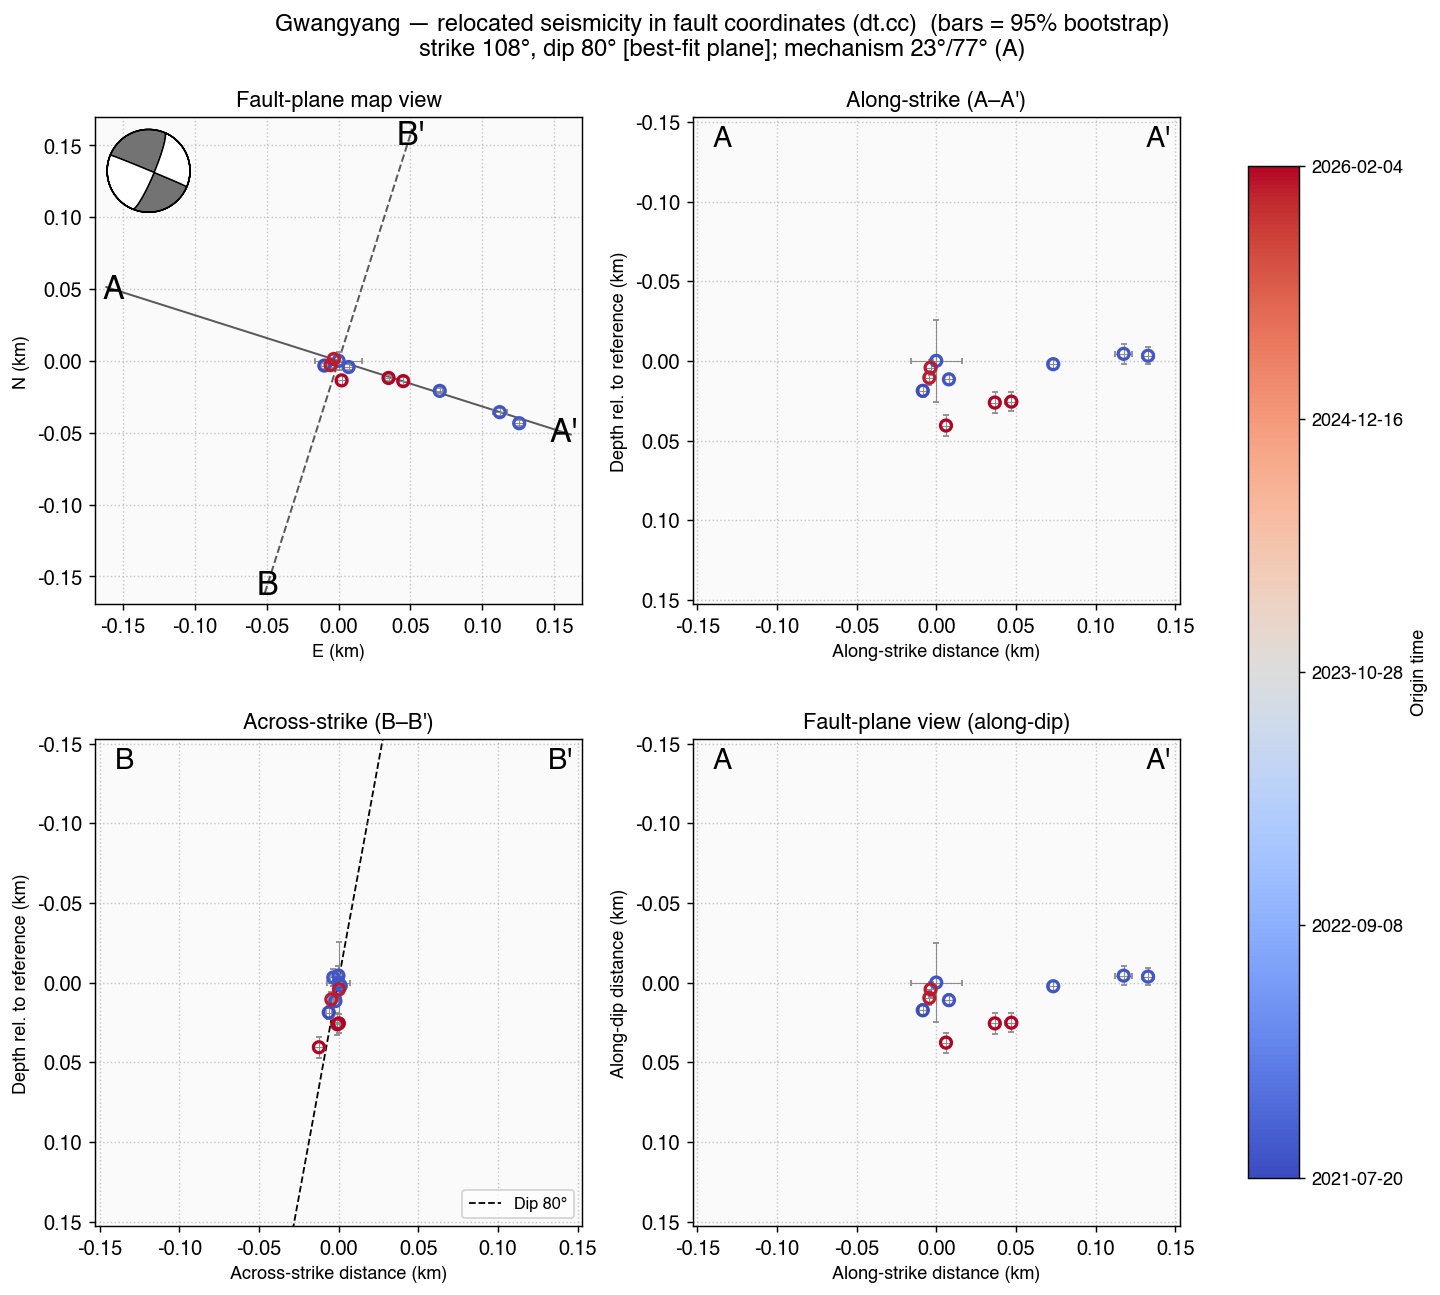
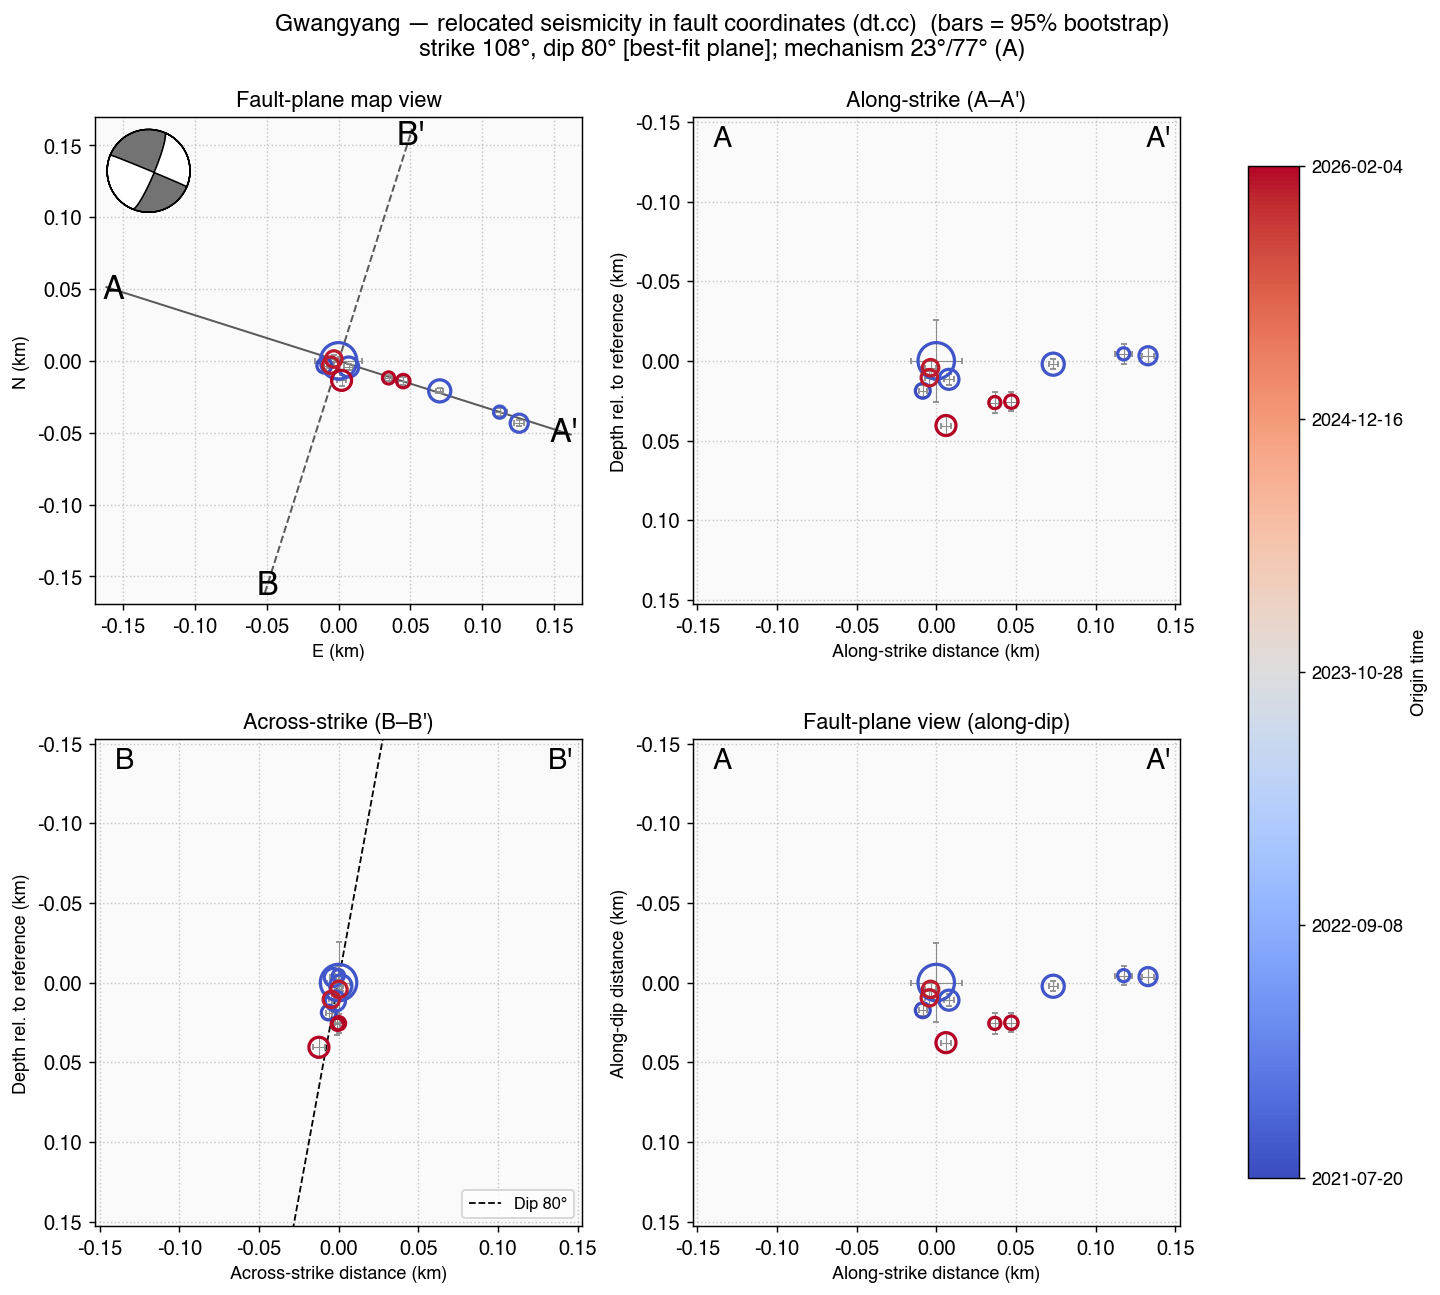
Fix magnitude circles across all clusters; both nodal planes; 3-D plane spans cloud
- viz._event_magnitudes: normalise catalog columns to lowercase. Only Kimcheon's
  catalog is lowercase (year/magnitude); Gwangyang/Jangsung/Gyeongju use Year/Magnitude,
  so itertuples access threw and the whole lookup returned {} -> uniform circles. Now
  all four clusters scale hypocentre circles by KMA local magnitude.
- viz.mechanism_table: add the auxiliary nodal plane (strike2/dip2/rake2) via obspy
  aux_plane, so both nodal planes are listed.
- viz.plot_3d_plane: size the best-fit-plane patch from the data's projection onto the
  in-plane axes (u1,u2) instead of a symmetric +-max(ptp)/2 square; asymmetric clouds
  (e.g. Kimcheon) are now fully spanned.
- Rebuild + execute the four 03_results_<cluster> notebooks; regenerate gwangyang figs;
  update README/CLAUDE.

diff --git a/pipeline/viz.py b/pipeline/viz.py
@@ -102,6 +102,7 @@ def _event_magnitudes(cfg):
     Returns {} on any failure (callers fall back to a default marker size)."""
     try:
         cat = pd.read_csv(cfg.event_catalog_csv)
+        cat.columns = [c.lower() for c in cat.columns]   # catalogs vary in case (Year vs year); normalise
         eid2mag = {}
         for r in cat.itertuples():
             t = UTCDateTime(int(r.year), int(r.month), int(r.day), int(r.hour), int(r.minute),
@@ -424,15 +425,23 @@ def _load_mechanisms(path):
 
 
 def mechanism_table(cfg, velmodel=None):
-    """Tidy focal-mechanism table (one row per event, preferred solution) for notebook display."""
+    """Tidy focal-mechanism table (one row per event, preferred solution) for notebook display.
+
+    Both nodal planes are listed: `strike/dip/rake` is the SKHASH-reported plane (NP1) and
+    `strike2/dip2/rake2` is the auxiliary plane (NP2), derived from NP1 with obspy `aux_plane`. A
+    double-couple mechanism is fully described by either plane; the fault is one of the two."""
     velmodel = velmodel or cfg.fm_velmodel
     path = config.fm_mech_csv(cfg, velmodel)
     if not os.path.exists(path):
         return pd.DataFrame()
-    m = _load_mechanisms(path)
-    cols = ["event_id", "quality", "strike", "dip", "rake", "fault_plane_uncertainty",
-            "num_p_pol", "num_sp_ratios", "azimuthal_gap", "sta_distribution_ratio",
-            "origin_depth_km"]
+    m = _load_mechanisms(path).reset_index(drop=True)
+    if {"strike", "dip", "rake"}.issubset(m.columns):     # auxiliary (conjugate) nodal plane
+        from obspy.imaging.beachball import aux_plane
+        aux = [aux_plane(float(r.strike), float(r.dip), float(r.rake)) for r in m.itertuples()]
+        m["strike2"], m["dip2"], m["rake2"] = (np.round([a[i] for a in aux], 1) for i in range(3))
+    cols = ["event_id", "quality", "strike", "dip", "rake", "strike2", "dip2", "rake2",
+            "fault_plane_uncertainty", "num_p_pol", "num_sp_ratios", "azimuthal_gap",
+            "sta_distribution_ratio", "origin_depth_km"]
     return m[[c for c in cols if c in m.columns]].reset_index(drop=True)
 
 
@@ -835,9 +844,16 @@ def plot_3d_plane(cfg, velmodel=None, color_by="time"):
         u1 = np.cross(n, [0.0, 0.0, 1.0])
         u1 = (np.array([1.0, 0.0, 0.0]) if np.linalg.norm(u1) < 1e-9 else u1 / np.linalg.norm(u1))
         u2 = np.cross(n, u1); u2 = u2 / np.linalg.norm(u2)
-        L = (max(np.ptp(E), np.ptp(N), np.ptp(dep)) / 2.0) or 0.2
+        # span the patch over the data's ACTUAL projection onto the in-plane axes (u1, u2), not a
+        # symmetric square — the cloud is usually asymmetric about its centroid, so a ±max(ptp)/2 square
+        # leaves the far hypocentres off the plane. Project, take min/max per axis, pad 8%.
         c0 = np.array([E.mean(), N.mean(), dep.mean()])
-        corners = [c0 + a * u1 + b * u2 for a in (-L, L) for b in (-L, L)]   # idx 0,1,2,3
+        P = np.column_stack((E, N, dep)) - c0
+        p1, p2 = P @ u1, P @ u2
+        m1 = 0.08 * (np.ptp(p1) or 0.2); m2 = 0.08 * (np.ptp(p2) or 0.2)
+        a1lo, a1hi = p1.min() - m1, p1.max() + m1
+        a2lo, a2hi = p2.min() - m2, p2.max() + m2
+        corners = [c0 + a * u1 + b * u2 for a in (a1lo, a1hi) for b in (a2lo, a2hi)]   # idx 0,1,2,3
         cx = [c[0] for c in corners]; cy = [c[1] for c in corners]; cz = [c[2] for c in corners]
         data.append(go.Mesh3d(x=cx, y=cy, z=cz, i=[0, 0], j=[1, 3], k=[3, 2],
                               opacity=0.3, color="gray", hoverinfo="name",

diff --git a/CLAUDE.md b/CLAUDE.md
@@ -107,7 +107,13 @@ falling back to the matplotlib default otherwise.
   location recovered (0.61→1.96 km), but it is shallow (0.61 km) with a 121° azimuthal gap → genuinely
   under-determined (seeding from the solution does not shrink its bar) → dropped from the plots.
 - **Circles scale by KMA local magnitude** (`viz._event_magnitudes` cuspid→event_id→catalog `magnitude`;
-  `_mag_size` = `5·exp(2·M)`), since the reloc `mag` column is 0. Used in every hypocentre scatter.
+  `_mag_size` = `5·exp(2·M)`), since the reloc `mag` column is 0. Used in every hypocentre scatter. The
+  catalog columns are normalised to lowercase first (some clusters' catalogs are `Year`/`Magnitude`, others
+  `year`/`magnitude`) — otherwise the lookup throws and *every* circle falls back to one size.
+- **Focal-mechanism table** (`viz.mechanism_table`) lists **both nodal planes**: `strike/dip/rake` is the
+  SKHASH plane (NP1), `strike2/dip2/rake2` the conjugate (NP2, obspy `aux_plane`). The **3-D plane patch**
+  (`viz.plot_3d_plane`) is sized from the data's projection onto the in-plane axes (u1, u2), not a symmetric
+  `±max(ptp)/2` square, so an asymmetric cloud is fully spanned.
 - **Run things politely** on the shared box (taskset + bounded cores). Verify no baseline drift with
   `python -m pipeline.regression.freeze_baseline verify`.
 - Adding a cluster: see README "Adding a cluster" (`_base.kma_cluster` factory or a bespoke `stp_sac`

diff --git a/README.md b/README.md
@@ -157,6 +157,10 @@ focal mechanisms above, and **`viz.fault_sections`** — the relocated catalog r
 (a 2×2 figure: fault-plane map view, along-strike + across-strike depth sections, and a fault-plane
 along-dip view), coloured by origin time and **oriented to the relocation cloud's own best-fit plane
 (SVD), with the focal mechanism overlaid for comparison** (pass `strike=`/`dip=` to override).
+`viz.mechanism_table` lists **both nodal planes** (`strike/dip/rake` = NP1 from SKHASH, `strike2/dip2/rake2`
+= the conjugate NP2 via obspy `aux_plane`); `viz.plot_3d_plane` is the interactive plotly view with the
+best-fit plane sized to **span the cloud's actual extent** (projected onto the in-plane axes, so an
+asymmetric cloud is fully covered).
 
 **Located-event counts shrink `.sum ≥ dt.ct ≥ dt.cc`.** `.sum` is every event HYPOINVERSE locates
 absolutely; **dt.ct** keeps only events with enough catalog differential-time links (isolated events
@@ -203,7 +207,8 @@ Once the cache exists, `viz.map_catalog`/`depth_sections`/`compare_epicenters`/`
 draw the 95% bars automatically (E/N on the map view, rotated into along/across/depth for the fault sections,
 3-D `error_x/y/z` for the plotly view) and **drop events the bootstrap flags as under-constrained** (95%
 horizontal half-width > 0.1 km or `n_boot` < 0.6·n; tunable), noting the count. Hypocentre **circles scale by
-KMA local magnitude** (the reloc `mag` is 0, so the catalog magnitude is used). `03_results_<cluster>.ipynb`
+KMA local magnitude** in every scatter (the reloc `mag` is 0, so the catalog magnitude is used, matched
+cuspid→event_id→catalog row case-insensitively across all four clusters). `03_results_<cluster>.ipynb`
 computes/loads the bootstrap and tabulates bootstrap-vs-internal. *(Example: Kimcheon 200007 has good CC and a
 recovered main location, but is shallow with a 121° azimuthal gap → genuinely under-determined, so it's
 dropped.)*